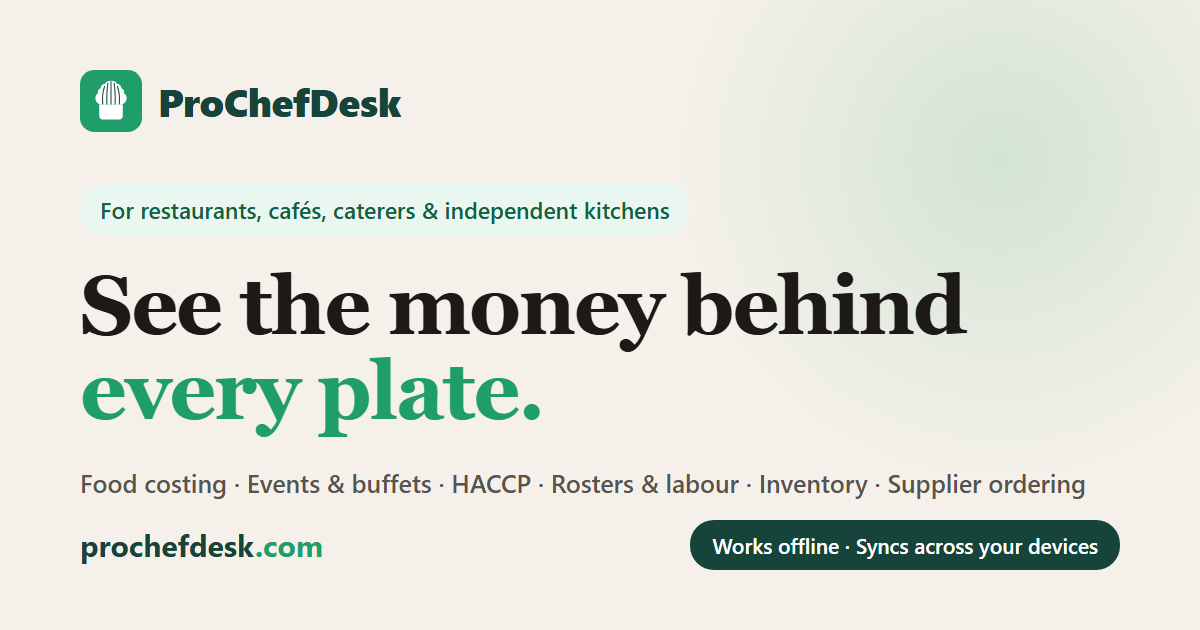
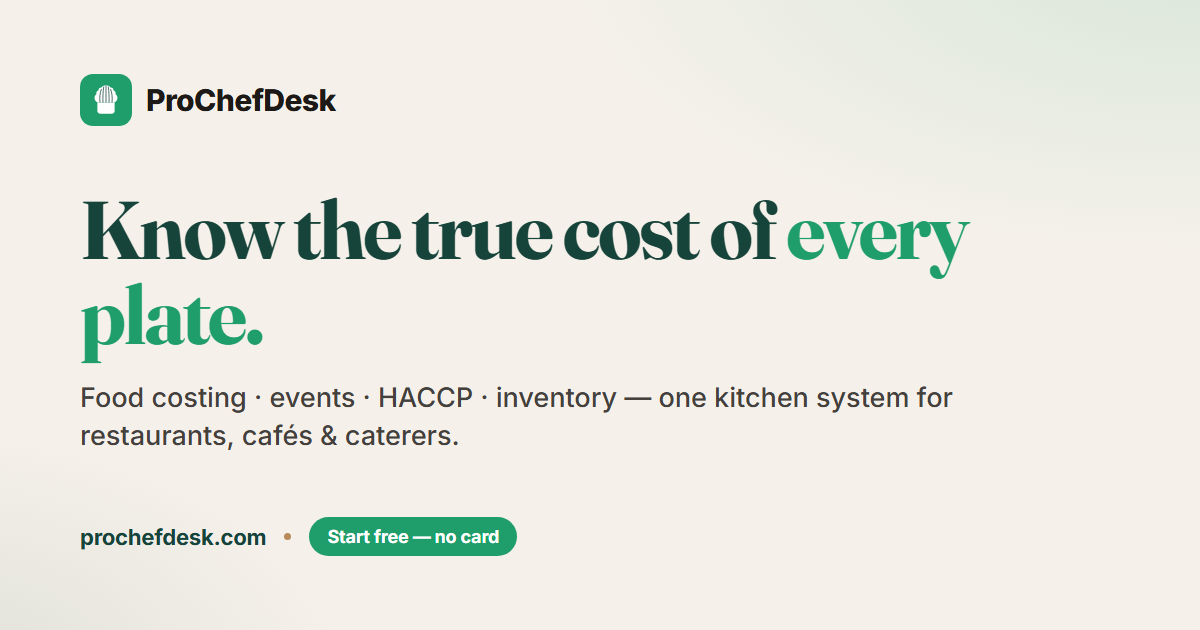
link paylaşım başlık vegörsel güncelleme

diff --git a/index.html b/index.html
@@ -5,8 +5,8 @@
 <meta name="viewport" content="width=device-width, initial-scale=1.0">
 <meta name="theme-color" content="#fafaf9">
 <meta name="robots" content="index, follow">
-<title>ProChefDesk — Food costing, events, HACCP &amp; inventory for hospitality businesses</title>
-<meta name="description" content="See the money behind every plate. Food costing, events &amp; buffets, HACCP, rosters and inventory in one system for restaurants, cafés, caterers and independent kitchens. Syncs across all your devices.">
+<title>ProChefDesk — Food costing, events, HACCP &amp; inventory for restaurants, cafés &amp; caterers</title>
+<meta name="description" content="Know the true cost of every plate. Cost recipes to the ingredient, quote events, run HACCP and track inventory — one kitchen system for restaurants, cafés &amp; caterers, in sync across all your devices.">
 <link rel="canonical" href="https://prochefdesk.com/">
 <link rel="icon" type="image/svg+xml" href="/app/assets/icon.svg">
 
@@ -16,18 +16,21 @@
 <!-- <meta name="google-site-verification" content="REPLACE_WITH_GSC_TOKEN"> -->
 
 <!-- Open Graph -->
-<meta property="og:title" content="ProChefDesk — See the money behind every plate">
-<meta property="og:description" content="Food costing, events &amp; buffets, HACCP, rosters and inventory in one system for restaurants, cafés, caterers &amp; independent kitchens.">
+<meta property="og:title" content="ProChefDesk — Know the true cost of every plate">
+<meta property="og:description" content="Cost every recipe to the ingredient with live margins — then quote events, run HACCP and track inventory, all in one system. For restaurants, cafés &amp; caterers.">
 <meta property="og:url" content="https://prochefdesk.com/">
 <meta property="og:type" content="website">
-<meta property="og:image" content="https://prochefdesk.com/og-image.png">
+<meta property="og:image" content="https://prochefdesk.com/og-image.png?v=2">
+<meta property="og:image:width" content="1200">
+<meta property="og:image:height" content="630">
+<meta property="og:image:alt" content="ProChefDesk — know the true cost of every plate">
 <meta property="og:site_name" content="ProChefDesk">
 
 <!-- Twitter -->
 <meta name="twitter:card" content="summary_large_image">
-<meta name="twitter:title" content="ProChefDesk — See the money behind every plate">
-<meta name="twitter:description" content="Food costing, events &amp; buffets, HACCP, rosters and inventory in one system for restaurants, cafés, caterers &amp; independent kitchens.">
-<meta name="twitter:image" content="https://prochefdesk.com/og-image.png">
+<meta name="twitter:title" content="ProChefDesk — Know the true cost of every plate">
+<meta name="twitter:description" content="Cost every recipe to the ingredient with live margins — then quote events, run HACCP and track inventory, all in one system. For restaurants, cafés &amp; caterers.">
+<meta name="twitter:image" content="https://prochefdesk.com/og-image.png?v=2">
 
 <!-- Preserve old share links: ?share=xxx and hash routes go straight to /app/ -->
 <script>

diff --git a/app/index.html b/app/index.html
@@ -11,7 +11,7 @@
 <meta name="apple-mobile-web-app-capable" content="yes">
 <meta name="mobile-web-app-capable" content="yes">
 <meta name="apple-mobile-web-app-status-bar-style" content="black-translucent">
-<meta name="description" content="ProChefDesk — management system for restaurants, cafés, caterers and independent kitchens. Food costing, events, HACCP, inventory and more.">
+<meta name="description" content="ProChefDesk — know the true cost of every plate. Food costing, events, HACCP and inventory for restaurants, cafés and caterers.">
 
 <!-- v2.9.28 — CSP meta tag KALDIRILDI. v2.9.24'te eklenmişti ama hCaptcha
      widget'ı + Discover foto görüntüsü için sürekli sorun çıkarıyordu.